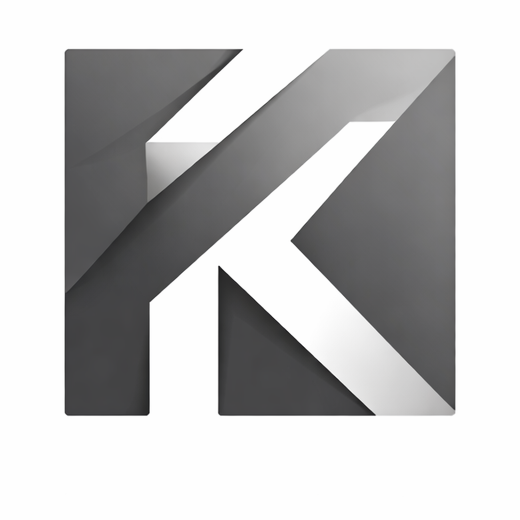
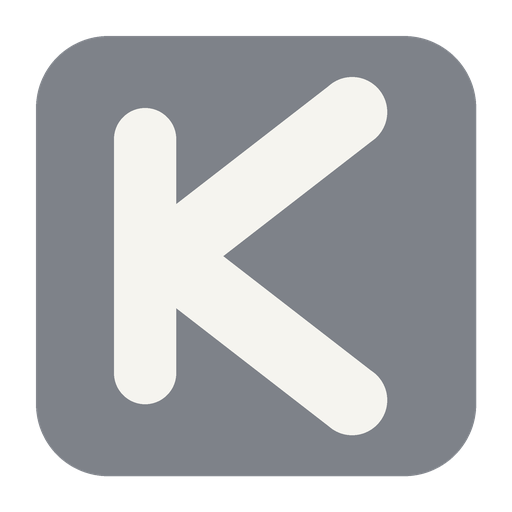
Simplify KEB News branding

diff --git a/src/app/globals.css b/src/app/globals.css
@@ -207,15 +207,13 @@ h4 {
 
 .brand__mark {
   align-items: center;
-  border: 1px solid rgba(17, 17, 19, 0.08);
-  border-radius: 1rem;
+  display: flex;
   flex: 0 0 auto;
-  overflow: hidden;
-  box-shadow: 0 20px 50px rgba(17, 17, 19, 0.1);
 }
 
 .brand__mark-image {
   display: block;
+  filter: drop-shadow(0 10px 24px rgba(17, 17, 19, 0.16));
   height: 3.25rem;
   width: 3.25rem;
 }

diff --git a/scripts/generate_logo_assets.py b/scripts/generate_logo_assets.py
@@ -1,0 +1,105 @@
+from __future__ import annotations
+
+from pathlib import Path
+
+from PIL import Image, ImageDraw, ImageFont
+
+
+ICON_PATH = Path("public/brand/keb-news-icon.png")
+LOGO_PATH = Path("public/brand/keb-news-logo.png")
+FAVICON_PATH = Path("src/app/favicon.ico")
+
+ICON_CANVAS = 512
+UPSCALE = 4
+
+PAGE_BACKGROUND = "#f7f6f1"
+TEXT_PRIMARY = "#2b2e33"
+TEXT_SECONDARY = "#6a6e74"
+ICON_TILE = "#7e8289"
+ICON_INK = "#f5f4ef"
+
+SERIF_BOLD = "/System/Library/Fonts/Supplemental/Georgia Bold.ttf"
+SERIF_REGULAR = "/System/Library/Fonts/Supplemental/Georgia.ttf"
+
+
+def draw_icon(size: int = ICON_CANVAS) -> Image.Image:
+    canvas_size = size * UPSCALE
+    image = Image.new("RGBA", (canvas_size, canvas_size), (0, 0, 0, 0))
+    draw = ImageDraw.Draw(image)
+
+    def scale(value: int) -> int:
+        return value * UPSCALE
+
+    draw.rounded_rectangle(
+        (scale(36), scale(36), scale(476), scale(476)),
+        radius=scale(72),
+        fill=ICON_TILE,
+    )
+    draw.rounded_rectangle(
+        (scale(114), scale(108), scale(176), scale(404)),
+        radius=scale(31),
+        fill=ICON_INK,
+    )
+    draw.line(
+        (scale(166), scale(256), scale(352), scale(112)),
+        fill=ICON_INK,
+        width=scale(70),
+    )
+    draw.line(
+        (scale(166), scale(256), scale(352), scale(400)),
+        fill=ICON_INK,
+        width=scale(70),
+    )
+
+    for x, y in ((166, 256), (352, 112), (352, 400)):
+        radius = scale(35)
+        draw.ellipse(
+            (scale(x) - radius, scale(y) - radius, scale(x) + radius, scale(y) + radius),
+            fill=ICON_INK,
+        )
+
+    return image.resize((size, size), Image.Resampling.LANCZOS)
+
+
+def load_font(path: str, size: int) -> ImageFont.FreeTypeFont:
+    return ImageFont.truetype(path, size=size)
+
+
+def draw_banner(icon: Image.Image) -> Image.Image:
+    width = 1536
+    height = 1024
+    banner = Image.new("RGBA", (width, height), PAGE_BACKGROUND)
+    draw = ImageDraw.Draw(banner)
+
+    icon_size = 272
+    icon_x = 188
+    icon_y = (height - icon_size) // 2
+    banner.alpha_composite(icon.resize((icon_size, icon_size), Image.Resampling.LANCZOS), (icon_x, icon_y))
+
+    eyebrow_font = load_font(SERIF_REGULAR, 34)
+    title_font = load_font(SERIF_BOLD, 150)
+    deck_font = load_font(SERIF_REGULAR, 52)
+
+    text_x = 520
+    draw.text((text_x, 286), "AI and tech newsroom", fill=TEXT_SECONDARY, font=eyebrow_font)
+    draw.text((text_x, 346), "KEB News", fill=TEXT_PRIMARY, font=title_font)
+    draw.text((text_x, 546), "Original editorial briefings for AI and tech.", fill=TEXT_SECONDARY, font=deck_font)
+
+    return banner
+
+
+def save_favicon(icon: Image.Image) -> None:
+    FAVICON_PATH.parent.mkdir(parents=True, exist_ok=True)
+    icon.save(FAVICON_PATH, format="ICO", sizes=[(64, 64), (32, 32), (16, 16)])
+
+
+def main() -> None:
+    icon = draw_icon()
+    ICON_PATH.parent.mkdir(parents=True, exist_ok=True)
+    icon.save(ICON_PATH)
+    draw_banner(icon).save(LOGO_PATH)
+    save_favicon(icon)
+
+
+if __name__ == "__main__":
+    main()
